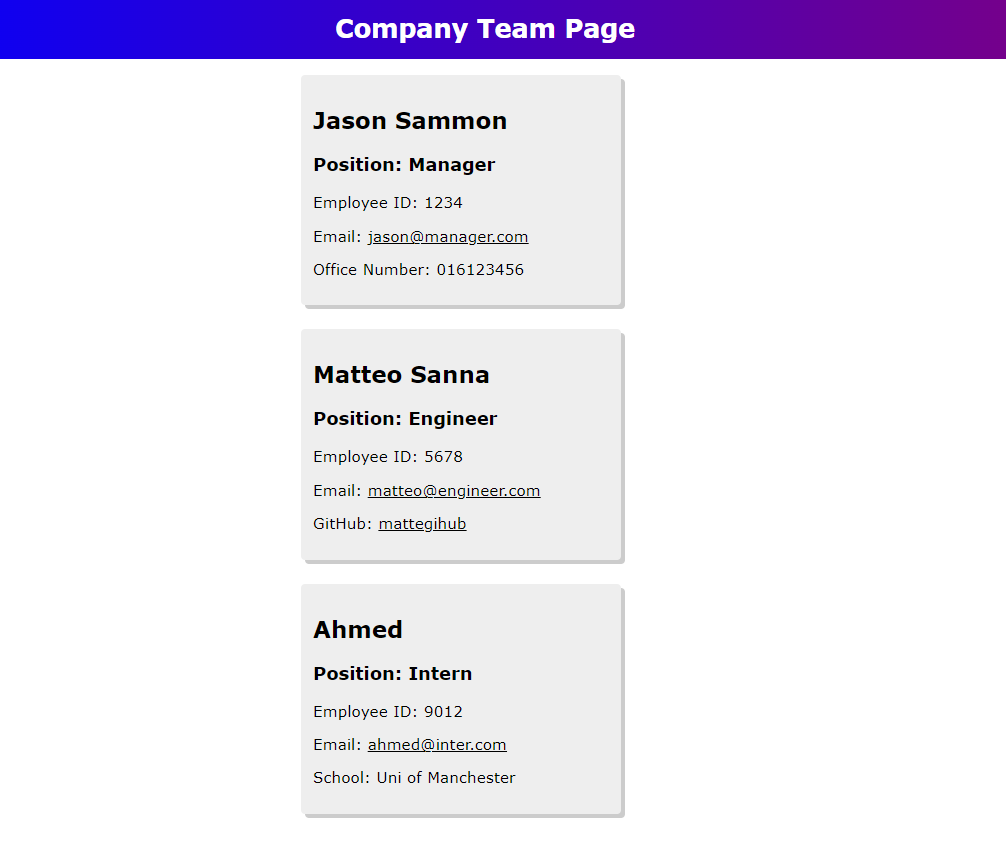
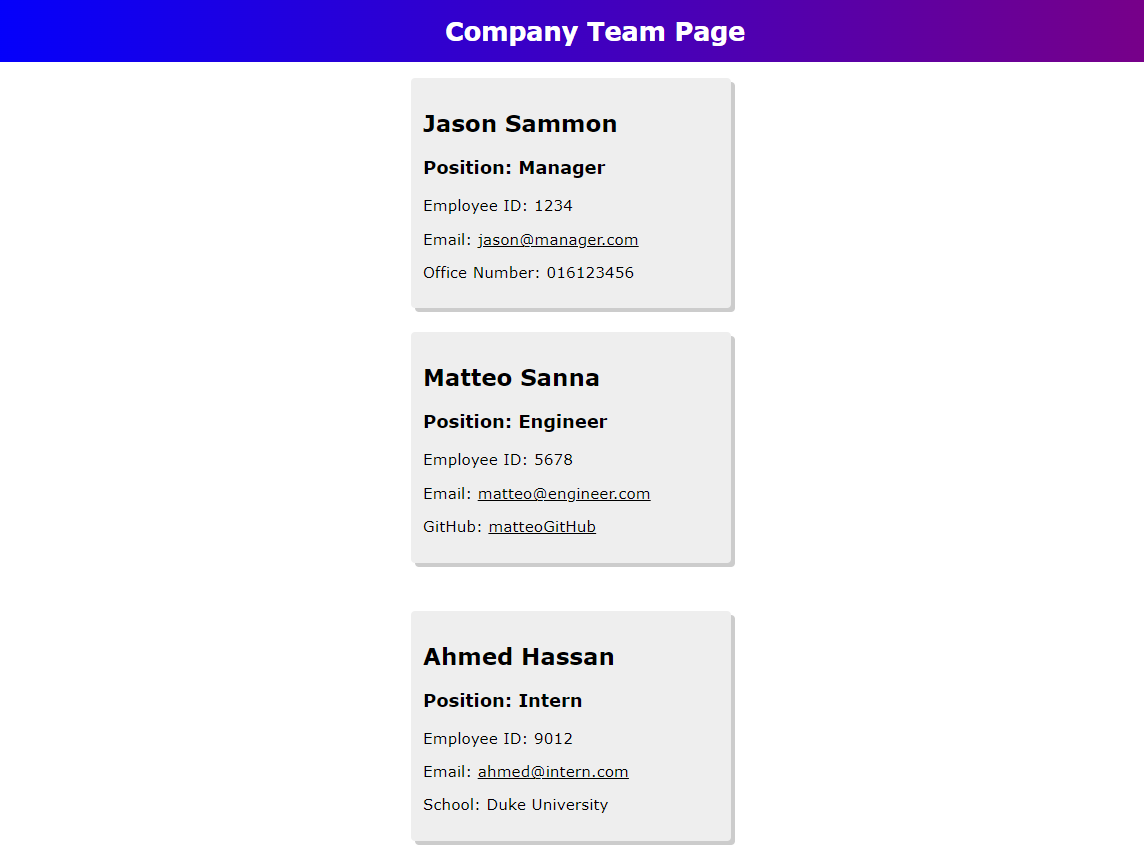
final read me

diff --git a/dist/team.html b/dist/team.html
@@ -15,6 +15,8 @@
  
    
     
+    
+
     <div class="team">
         <div class="card">
             <div class="card-header">
@@ -31,6 +33,8 @@
 
 
 
+ 
+   
     <div class="team">
         <div class="card">
             <div class="card-header">
@@ -38,21 +42,22 @@
             <h3> Position: Engineer </h3>
             <p>Employee ID: 5678</p>
             <p>Email: <a href="mailto:matteo@engineer.com">matteo@engineer.com</a></p>
-            <p>GitHub: <a href="mattegihub" target="_blank">mattegihub</a></p>
+            <p>GitHub: <a href="matteoGitHub" target="_blank">matteoGitHub</a></p>
             </div>
         </div>
     </div>
     <!--engineer-->
 
+>
 
     <div class="team">
         <div class="card">
             <div class="card-header">
-            <h2>Ahmed</h2>
+            <h2>Ahmed Hassan</h2>
             <h3> Position: Intern </h3>
             <p>Employee ID: 9012</p>
-            <p>Email: <a href="mailto:ahmed@inter.com">ahmed@inter.com</a></p>
-            <p>School: Uni of Manchester</p>
+            <p>Email: <a href="mailto:ahmed@intern.com">ahmed@intern.com</a></p>
+            <p>School: Duke University</p>
             </div>
         </div>
     </div>

diff --git a/README.md b/README.md
@@ -32,8 +32,12 @@ THEN I exit the application, and the HTML is generated
 
 
 ## Walkthrough video Link
+Demonstration on VS Code
+https://youtu.be/LZEEDEEQFgA
 
-https://youtu.be/v2EJsWwoFgo
+
+Demonstration on browser
+https://youtu.be/caM3DTbF468
 
 ## Team Profile Generator Screenshot
 
